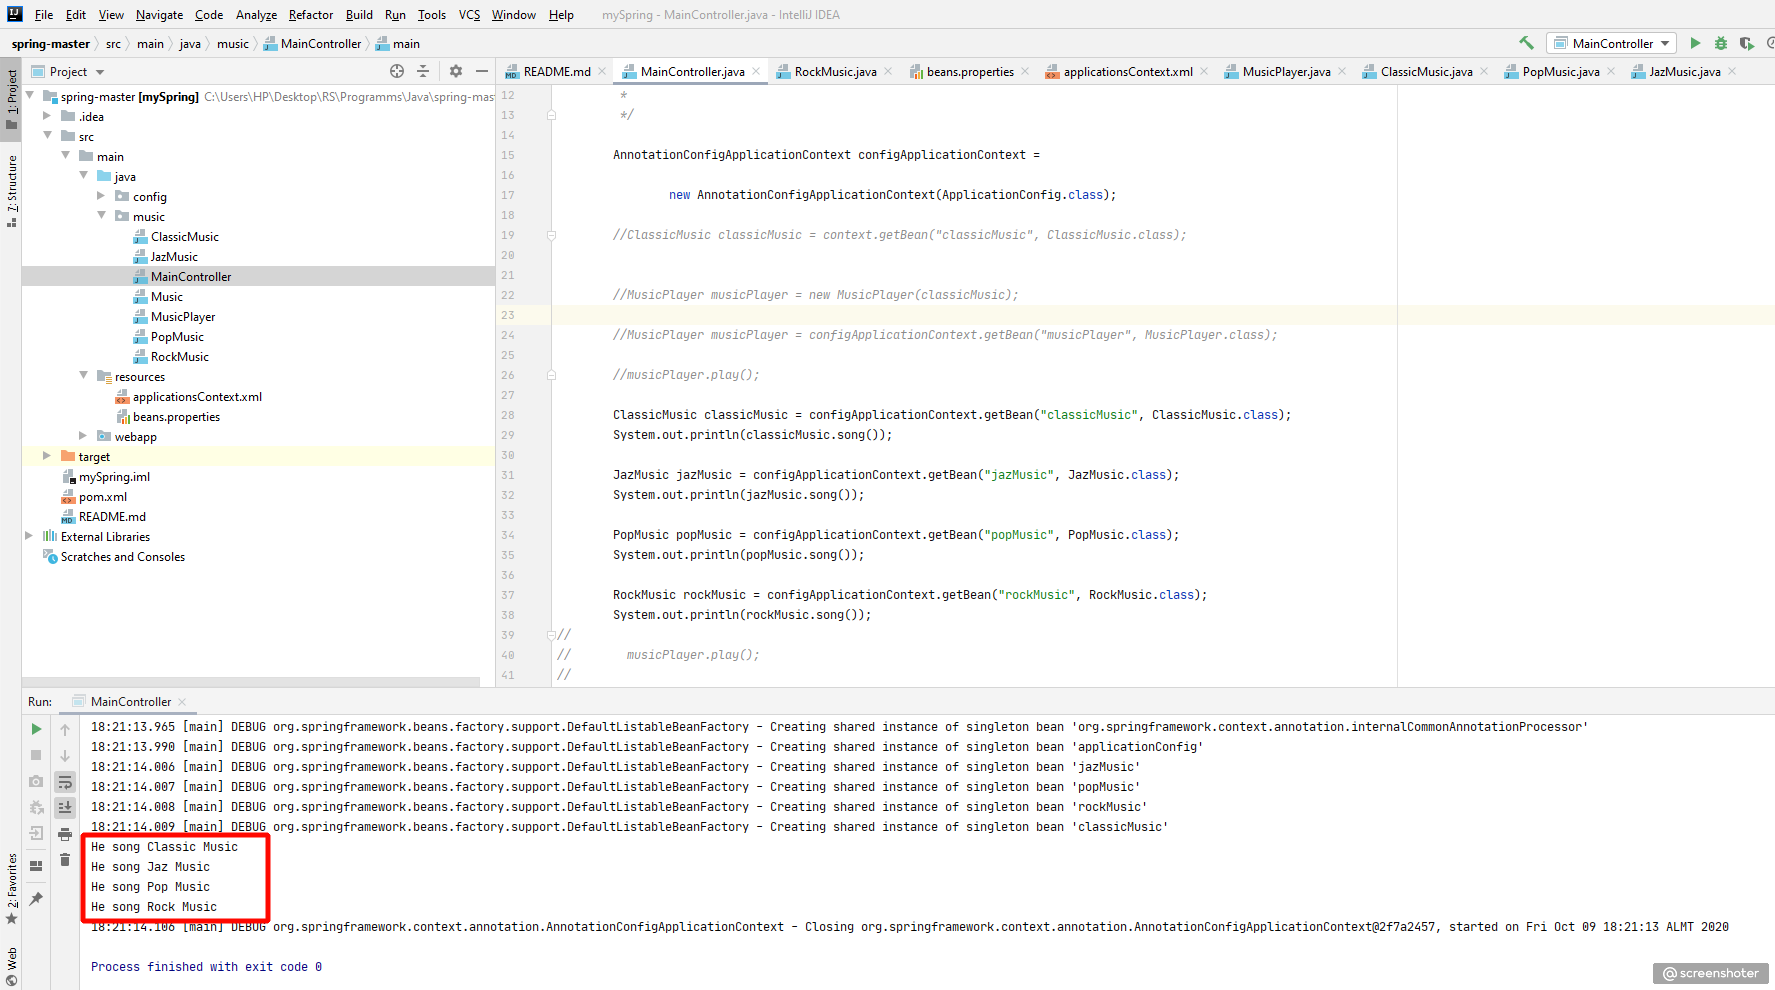
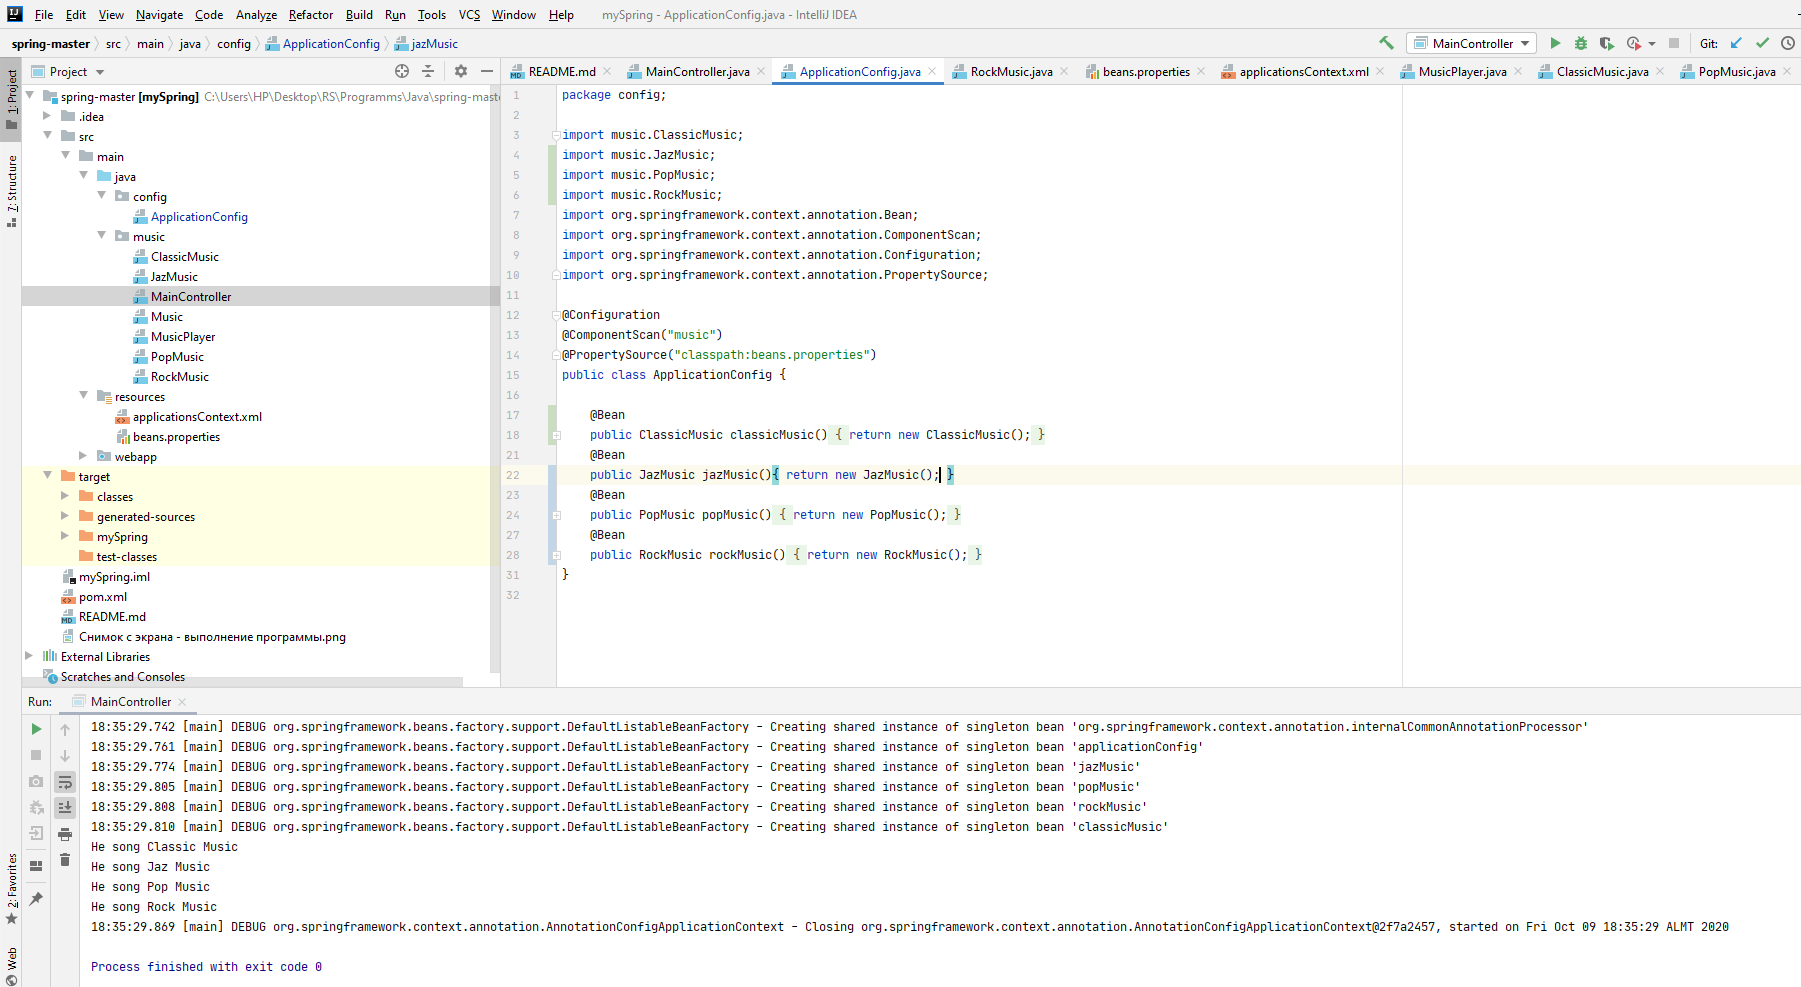
first commit

Changed region(s): [[0.0, 0.0, 1.0, 0.9422], [0.0, 0.9726, 0.1859, 1.0], [0.9296, 0.9726, 1.0, 1.0]]

diff --git a/src/main/java/config/ApplicationConfig.java b/src/main/java/config/ApplicationConfig.java
@@ -1,6 +1,9 @@
 package config;
 
 import music.ClassicMusic;
+import music.JazMusic;
+import music.PopMusic;
+import music.RockMusic;
 import org.springframework.context.annotation.Bean;
 import org.springframework.context.annotation.ComponentScan;
 import org.springframework.context.annotation.Configuration;
@@ -14,5 +17,15 @@ public class ApplicationConfig {
     @Bean
     public ClassicMusic classicMusic(){
         return new ClassicMusic();
+    }
+    @Bean
+    public JazMusic jazMusic(){ return new JazMusic(); }
+    @Bean
+    public PopMusic popMusic(){
+        return new PopMusic();
+    }
+    @Bean
+    public RockMusic rockMusic(){
+        return new RockMusic();
     }
 }
